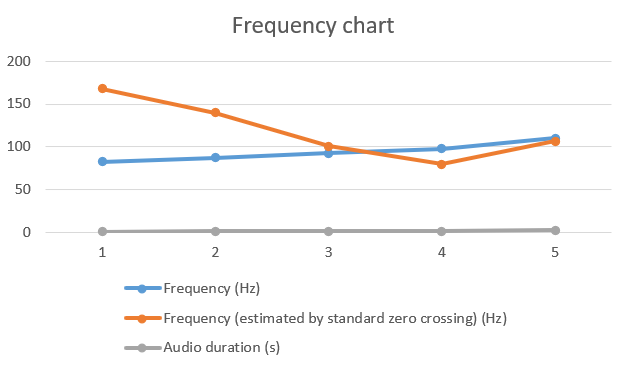
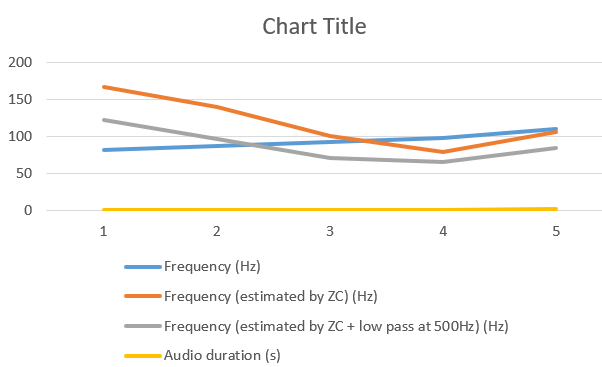
low pass

diff --git a/zero_crossing.py b/zero_crossing.py
@@ -4,7 +4,7 @@ import matplotlib.pyplot as plt
 from pydub import AudioSegment
 
 # Apply low-pass filter using pydub
-input_file = "plucks\\pluck_cropped_82.4Hz_converted.wav"
+input_file = "plucks\\pluck_cropped_110Hz_converted.wav"
 filtered_file = "temp_filtered.wav"
 
 # Load and filter
